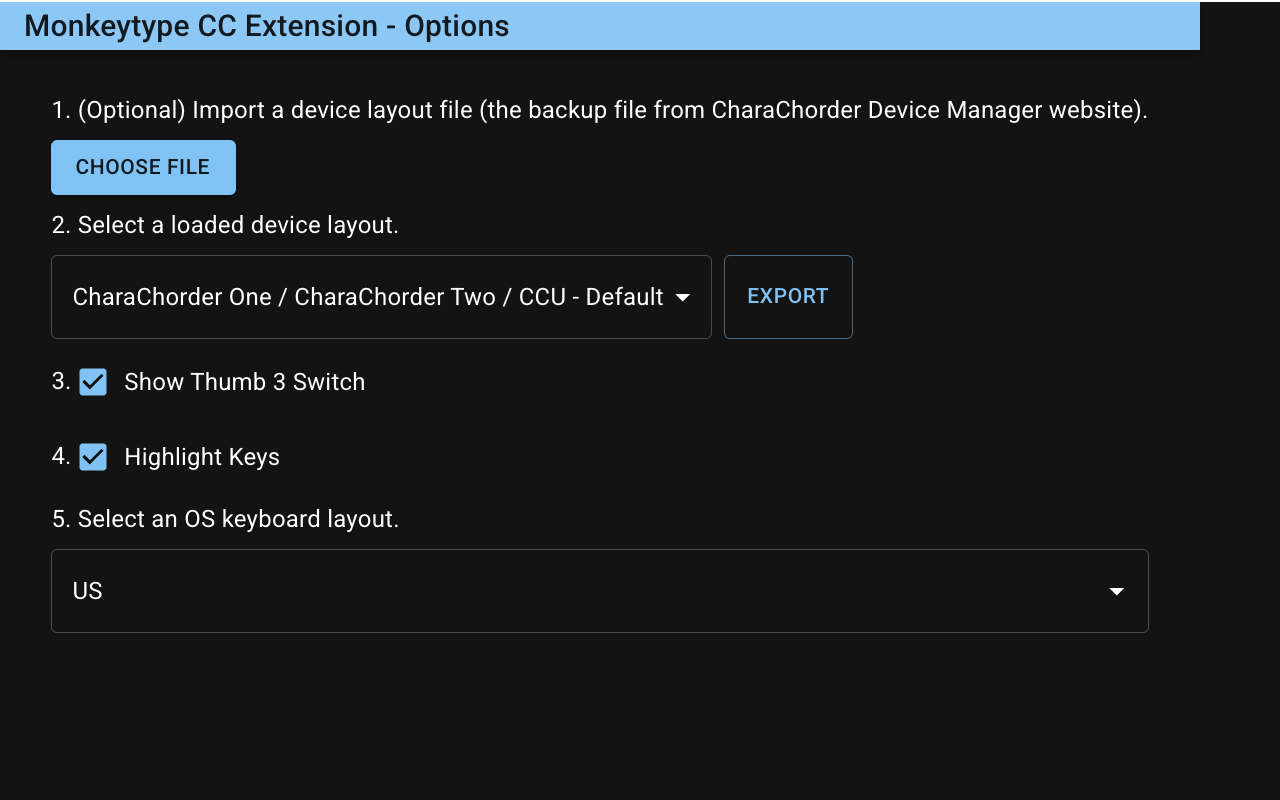
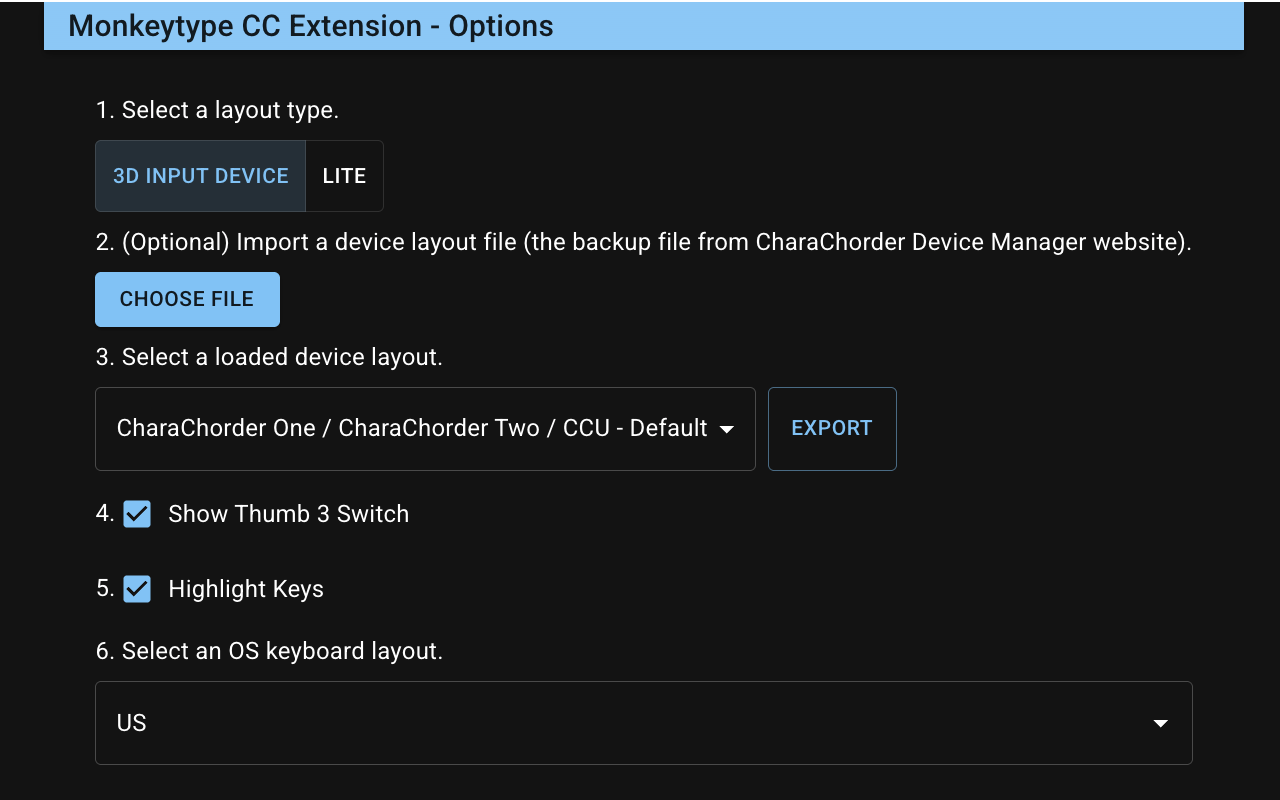
chore: bump version

diff --git a/README.md b/README.md
@@ -16,15 +16,15 @@
 
 ## Summary
 
-An unofficial browser extension that displays the layout of CharaChorder 3D input devices on [Monkeytype](https://monkeytype.com/)
+An unofficial browser extension that displays the layout of CharaChorder input devices on [Monkeytype](https://monkeytype.com/)
 
 ## Description
 
-An unofficial browser extension that displays the layout of CharaChorder 3D input devices (CharaChorder One, CharaChorder Two, CCU and Master Forge) on [Monkeytype](https://monkeytype.com/).
+An unofficial browser extension that displays the layout of CharaChorder input devices (CharaChorder One, CharaChorder Two, CCU, Master Forge, and CharaChorder Lite) on [Monkeytype](https://monkeytype.com/).
 
-With this extension, users can familiarize themselves with the layouts of CharaChorder 3D input devices directly on Monkeytype.
+With this extension, users can familiarize themselves with the layouts of CharaChorder input devices directly on Monkeytype.
 
-After installation, click the extension icon to open an option page, where you can import a device layout file, choose which device layout to display, toggle the thumb-3 switch, toggle key highlighting, and choose an OS keyboard layout.
+After installation, click the extension icon to open an option page, where you can choose a layout type (3D input device or Lite), import a device layout file, choose which device layout to display, toggle the thumb-3 switch, toggle key highlighting, and choose an OS keyboard layout.
 
 Clicking the settings button on the layout enters edit mode, allowing you to adjust its position, size, and transparency by dragging, resizing, and scrolling.
 

diff --git a/CHANGELOG.md b/CHANGELOG.md
@@ -1,5 +1,12 @@
 # Changelog
 
+## [6.0](https://github.com/andy23512/monkeytype-cc-extension/releases/tag/6.0)
+
+- Add CharaChorder Lite layout support
+- Add scroll lock in edit mode
+- Fix Lite layout falling back to the CC1 device layout in some cases
+- Fix settings bug caused by calling hooks conditionally
+
 ## [5.1](https://github.com/andy23512/monkeytype-cc-extension/releases/tag/5.1)
 
 - Fix highlight bug of |\ character
